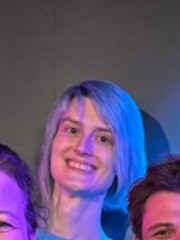
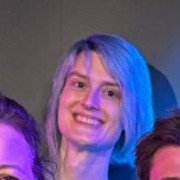
added photo of brian and fixed layout issues

diff --git a/public/css/media.css b/public/css/media.css
@@ -2,7 +2,9 @@
 picture,
 img {
   max-width: 100%;
+  max-height: 100%;
   height: auto;
+  width: auto;
 }
 
 

diff --git a/content/improv_group/index.md b/content/improv_group/index.md
@@ -23,10 +23,13 @@ What they have agreed on is that it will be a combination of short-form improvis
       </div>
     </div>
     <div class="card-image-container">
-      {% image "./img/yorick_landscape.jpg", "Yorick van Boheemen" %}
+      <div class="card-image">
+        {% image "./img/yorick_landscape.jpg", "Yorick van Boheemen" %}
+      </div>
     </div>
     <div class="center-text-container">
-      <p>I love to find the funny by playing the truth of a scene.</p>
+      <p></p>
+      <p><b>What I love about improv:</b> finding the funny by playing the truth of a scene.</p>
       <p><b>Specialities:</b> Finding the game, playing tender dinosaurs</p>
       <p><b>Find out more:</b> <a href="/">Alas Poor Comedy</a></p>
     </div>
@@ -45,9 +48,28 @@ What they have agreed on is that it will be a combination of short-form improvis
     </div>
     <div class="center-text-container">
       <p></p>
-      <p>Jokes travel faster than facts.</p>
+      <p><b>What I love about improv:</b> Jokes travel faster than facts.</p>
       <p><b>Specialities:</b> Culture Hacking through comedy, "playing" a doddering old man</p>
       <p><b>Find out more:</b> <a href="https://www.dancing-fox.com">dancing-fox.com</a></p>
+    </div>
+  </div>
+
+  <div class="card-30">
+    <div class="center-text-container">
+      <div class="card-title">
+        Brian Pierce
+      </div>
+    </div>
+    <div class="card-image-container">
+      <div class="card-image">
+        {% image "./img/brian_p_2.jpg", "Brian Pierce" %}
+      </div>
+    </div>
+    <div class="center-text-container">
+      <p></p>
+      <p></p>
+      <p><b>What I love about improv:</b> The joy of exploration and creation without mostly all of the pillaging and colonialism.</p>
+      <p><b>Specialities:</b> Jaded cynic, voice of reason, any character who truly enjoys a fresh slice of pie.</p>
     </div>
   </div>
 
@@ -64,28 +86,8 @@ What they have agreed on is that it will be a combination of short-form improvis
     </div>
     <div class="center-text-container">
       <p></p>
-      <p></p>
-      <p><b>Specialities:</b> </p>
+      <!-- <p><b>Specialities:</b> </p> -->
       <p><b>Find out more:</b> <a href="ariabennett.com">ariabennett.com</a></p>
-    </div>
-  </div>
-
-  <div class="card-30">
-    <div class="center-text-container">
-      <div class="card-title">
-        Brian Pierce
-      </div>
-    </div>
-    <div class="card-image-container">
-      <div class="card-image">
-        {% image "./img/brian_p.jpg", "Brian Pierce" %}
-      </div>
-    </div>
-    <div class="center-text-container">
-      <p></p>
-      <p></p>
-      <p><b>Specialities:</b> </p>
-      <p><b>Find out more:</b> <a href=""></a></p>
     </div>
   </div>
 
@@ -101,10 +103,10 @@ What they have agreed on is that it will be a combination of short-form improvis
       </div>
     </div>
     <div class="center-text-container">
-      <p></p>
+      <!-- <p></p>
       <p></p>
       <p><b>Specialities:</b> </p>
-      <p><b>Find out more:</b> <a href=""></a></p>
+      <p><b>Find out more:</b> <a href=""></a></p> -->
     </div>
   </div>
 
@@ -120,10 +122,10 @@ What they have agreed on is that it will be a combination of short-form improvis
       </div>
     </div>
     <div class="center-text-container">
-      <p></p>
+      <!-- <p></p>
       <p></p>
       <p><b>Specialities:</b> </p>
-      <p><b>Find out more:</b> <a href=""></a></p>
+      <p><b>Find out more:</b> <a href=""></a></p> -->
     </div>
   </div>
 
